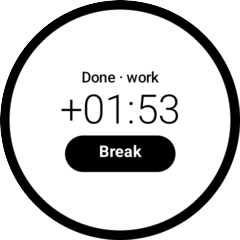
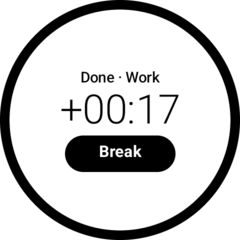
Document that the Wear OS app keeps the screen on while open
The README now says the watch screen stays on while the app is open, so the timer doesn't drop back to the watch face. It also says that closing the app lets the watch sleep again, and that Always-on display shows the timer dimmed. The watch screenshots are refreshed.

diff --git a/README.md b/README.md
@@ -73,7 +73,8 @@ won't update over it. To keep your history, open **Menu > Stats > Export CSV** b
 The watch app works with Wear OS 3 or newer (Pixel Watch, Galaxy Watch 4 and later, and others). It needs the
 phone app, and both devices need Google Play services. It shows the timer and tag from your phone and has
 **Start**, **Give up** and **Break** buttons. If the phone is out of reach, the watch says so and disables the
-buttons.
+buttons. The screen stays on while the app is open, so the timer doesn't drop back to the watch face; close
+the app to let the watch sleep again. With Always-on display turned on, the timer is shown dimmed instead.
 
 Watch apps can't be installed from a file on the watch itself, so you need a computer with
 [adb](https://developer.android.com/tools/releases/platform-tools):
